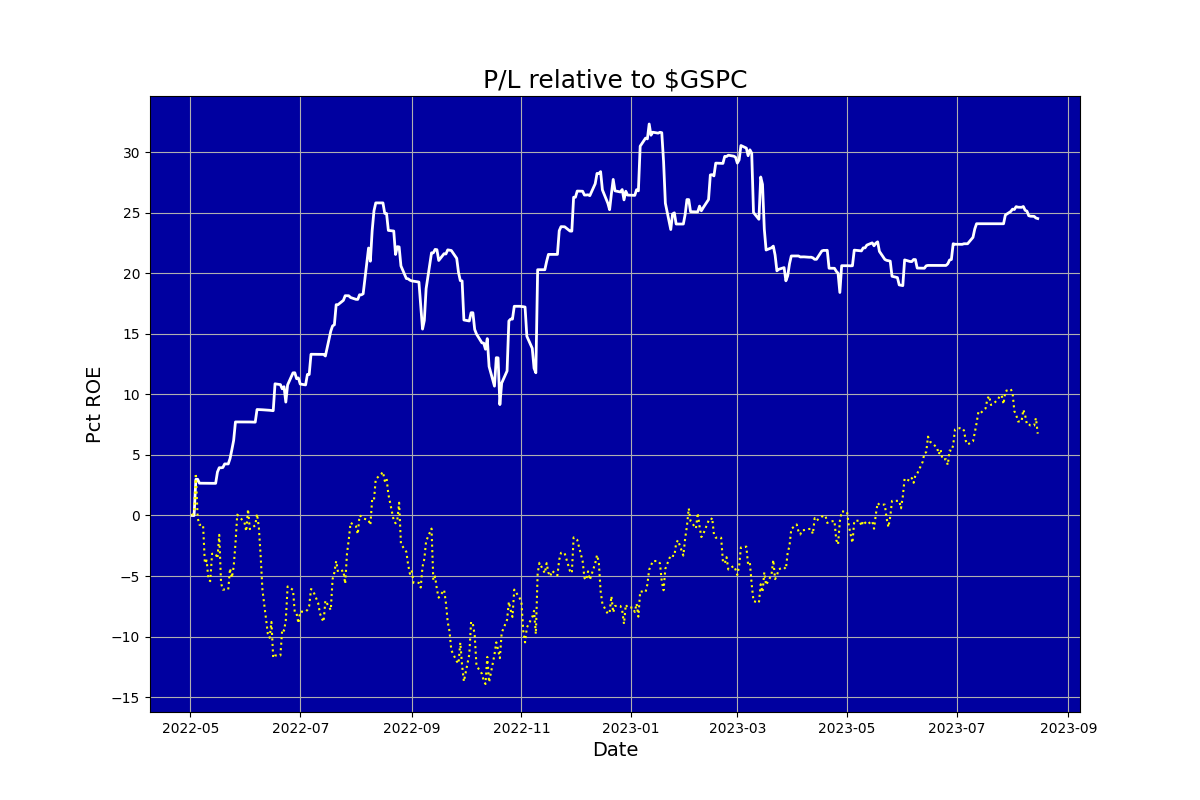
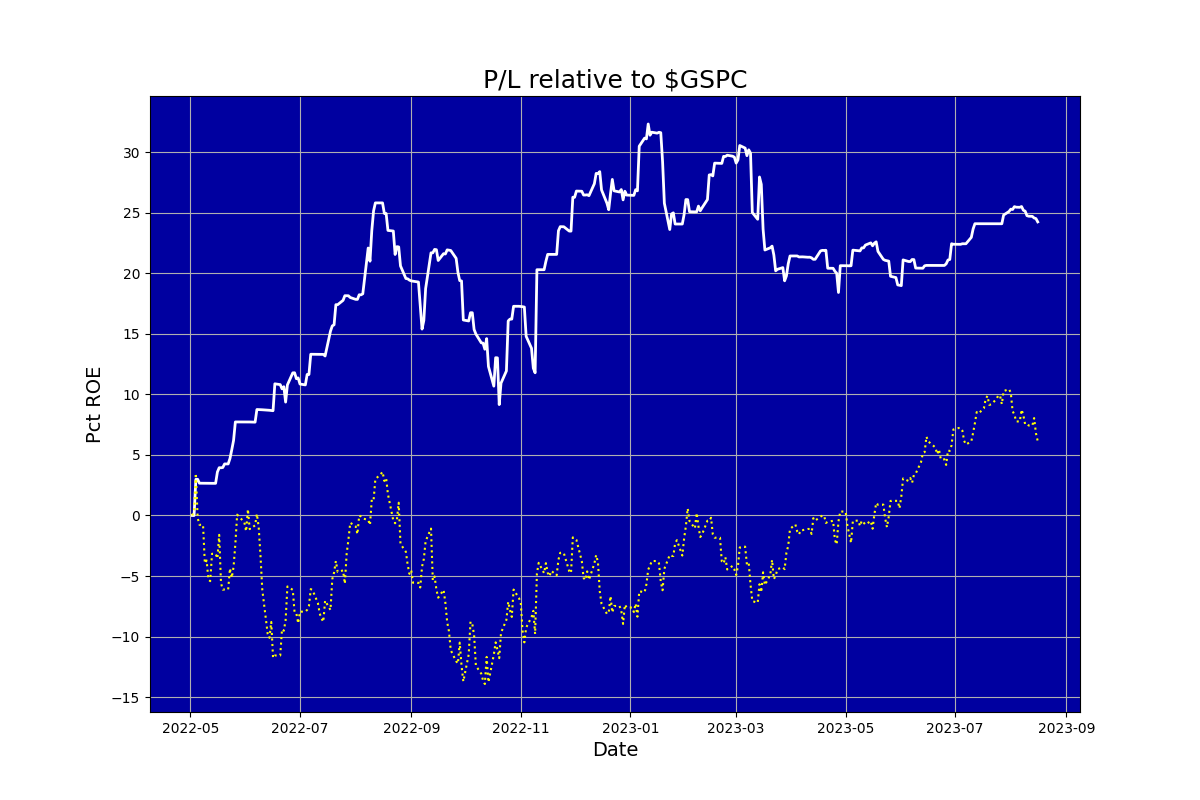
Updated

diff --git a/ig_report.html b/ig_report.html
@@ -1,1 +1,1 @@
-<html><body><center><h1>Auriel (never knowingly overbought)</h1></center><table cols=2><tr><td><img src=ig_pl.png></td><td><table cols=2><tr><td colspan=2><b><br>Snapshot</b></td></tr><tr><td>Last updated:&nbsp;&nbsp;&nbsp;</td><td>2023-08-15 15:56</td></tr><tr><td>Margin:&nbsp;&nbsp;&nbsp;</td><td>0.61</td></tr><tr><td>Cushion:&nbsp;&nbsp;&nbsp;</td><td>-39446.64</td></tr><tr><td>Last closed trade:&nbsp;&nbsp;&nbsp;</td><td>2023-08-15</td></tr><tr><td colspan=2><b><br>Positions</b></td></tr><tr><td>Mean days to new high:&nbsp;&nbsp;&nbsp;</td><td>14.26</td></tr><tr><td colspan=2><b><br>Trades</b></td></tr><tr><td>Traded days:&nbsp;&nbsp;&nbsp;</td><td>341</td></tr><tr><td>Profitable days pct:&nbsp;&nbsp;&nbsp;</td><td>36.66</td></tr><tr><td>Days beat S&P pct:&nbsp;&nbsp;&nbsp;</td><td>54.63</td></tr><tr><td>Profitable months pct:&nbsp;&nbsp;&nbsp;</td><td>62.50</td></tr><tr><td colspan=2><b><br>Performance</b></td></tr><tr><td>Pct median monthly ROE:&nbsp;&nbsp;&nbsp;</td><td>1.28</td></tr><tr><td>Pct annualised ROE:&nbsp;&nbsp;&nbsp;</td><td>17.98</td></tr><tr><td colspan=2><b><br>Risk</b></td></tr><tr><td>Volatility pct:&nbsp;&nbsp;&nbsp;</td><td>17.29</td></tr><tr><td>Benchmark volatility pct:&nbsp;&nbsp;&nbsp;</td><td>20.39</td></tr><tr><td>Sharpe ratio (RFR 5.0%):&nbsp;&nbsp;&nbsp;</td><td>0.85</td></tr><tr><td>Sortino ratio (RFR 5.0%):&nbsp;&nbsp;&nbsp;</td><td>1.15</td></tr><tr><td>Calmar ratio:&nbsp;&nbsp;&nbsp;</td><td>1.08</td></tr><tr><td>Worst drawdown pct:&nbsp;&nbsp;&nbsp;</td><td>-0.17</td></tr><tr><td>Recovery days from worst drawdown:&nbsp;&nbsp;&nbsp;</td><td>29.00</td></tr><tr><td>Beat benchmark +ve periods pct:&nbsp;&nbsp;&nbsp;</td><td>38.03</td></tr><tr><td>Beat benchmark -ve periods pct:&nbsp;&nbsp;&nbsp;</td><td>88.01</td></tr><tr><td>Correlation with benchmark:&nbsp;&nbsp;&nbsp;</td><td>0.35</td></tr></table></td></tr></table></body></html>
+<html><body><center><h1>Auriel (never knowingly overbought)</h1></center><table cols=2><tr><td><img src=ig_pl.png></td><td><table cols=2><tr><td colspan=2><b><br>Snapshot</b></td></tr><tr><td>Last updated:&nbsp;&nbsp;&nbsp;</td><td>2023-08-16 15:57</td></tr><tr><td>Margin:&nbsp;&nbsp;&nbsp;</td><td>0.59</td></tr><tr><td>Cushion:&nbsp;&nbsp;&nbsp;</td><td>-39940.51</td></tr><tr><td>Last closed trade:&nbsp;&nbsp;&nbsp;</td><td>2023-08-16</td></tr><tr><td colspan=2><b><br>Positions</b></td></tr><tr><td>Mean days to new high:&nbsp;&nbsp;&nbsp;</td><td>14.27</td></tr><tr><td colspan=2><b><br>Trades</b></td></tr><tr><td>Traded days:&nbsp;&nbsp;&nbsp;</td><td>342</td></tr><tr><td>Profitable days pct:&nbsp;&nbsp;&nbsp;</td><td>36.55</td></tr><tr><td>Days beat S&P pct:&nbsp;&nbsp;&nbsp;</td><td>54.77</td></tr><tr><td>Profitable months pct:&nbsp;&nbsp;&nbsp;</td><td>62.50</td></tr><tr><td colspan=2><b><br>Performance</b></td></tr><tr><td>Pct median monthly ROE:&nbsp;&nbsp;&nbsp;</td><td>1.28</td></tr><tr><td>Pct annualised ROE:&nbsp;&nbsp;&nbsp;</td><td>17.72</td></tr><tr><td colspan=2><b><br>Risk</b></td></tr><tr><td>Volatility pct:&nbsp;&nbsp;&nbsp;</td><td>17.27</td></tr><tr><td>Benchmark volatility pct:&nbsp;&nbsp;&nbsp;</td><td>20.36</td></tr><tr><td>Sharpe ratio (RFR 5.0%):&nbsp;&nbsp;&nbsp;</td><td>0.83</td></tr><tr><td>Sortino ratio (RFR 5.0%):&nbsp;&nbsp;&nbsp;</td><td>1.13</td></tr><tr><td>Calmar ratio:&nbsp;&nbsp;&nbsp;</td><td>1.06</td></tr><tr><td>Worst drawdown pct:&nbsp;&nbsp;&nbsp;</td><td>-0.17</td></tr><tr><td>Recovery days from worst drawdown:&nbsp;&nbsp;&nbsp;</td><td>29.00</td></tr><tr><td>Beat benchmark +ve periods pct:&nbsp;&nbsp;&nbsp;</td><td>37.89</td></tr><tr><td>Beat benchmark -ve periods pct:&nbsp;&nbsp;&nbsp;</td><td>88.04</td></tr><tr><td>Correlation with benchmark:&nbsp;&nbsp;&nbsp;</td><td>0.35</td></tr></table></td></tr></table></body></html>
